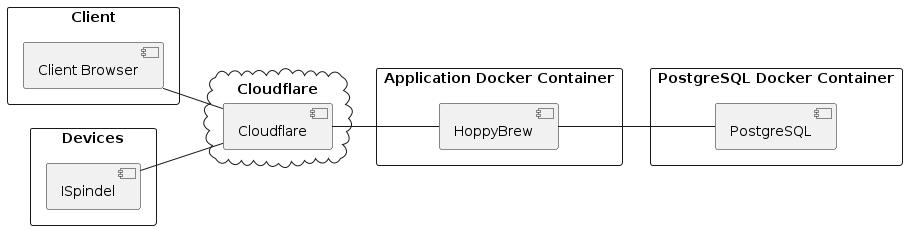
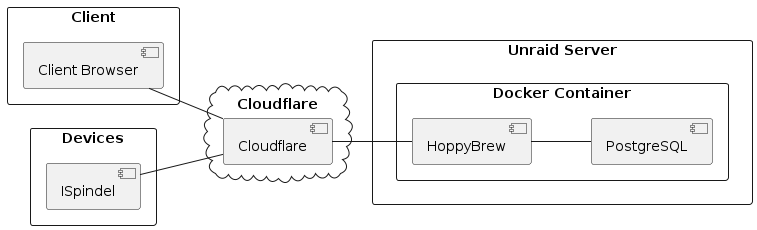
Update

diff --git a/documents/01-Conception-Phase/00-HoppyBrew.md b/documents/01-Conception-Phase/00-HoppyBrew.md
@@ -577,14 +577,16 @@ rectangle "Devices" {
 cloud "Cloudflare" {
     component "Cloudflare" as cloudflare
 }
-
-rectangle "Application Docker Container" {
+rectangle "Unraid Server" {
+    rectangle "Docker Container" {
     component "HoppyBrew" as hoppybrew
+    }
+
+    rectangle "Docker Container" {
+        component "PostgreSQL" as postgres
+    }
 }
 
-rectangle "PostgreSQL Docker Container" {
-    component "PostgreSQL" as postgres
-}
 
 client_browser -- cloudflare
 iSpindel -- cloudflare

diff --git a/documents/01-Conception-Phase/chapters/05_Building_Block_View.md b/documents/01-Conception-Phase/chapters/05_Building_Block_View.md
@@ -127,14 +127,16 @@ rectangle "Devices" {
 cloud "Cloudflare" {
     component "Cloudflare" as cloudflare
 }
-
-rectangle "Application Docker Container" {
+rectangle "Unraid Server" {
+    rectangle "Docker Container" {
     component "HoppyBrew" as hoppybrew
+    }
+
+    rectangle "Docker Container" {
+        component "PostgreSQL" as postgres
+    }
 }
 
-rectangle "PostgreSQL Docker Container" {
-    component "PostgreSQL" as postgres
-}
 
 client_browser -- cloudflare
 iSpindel -- cloudflare
